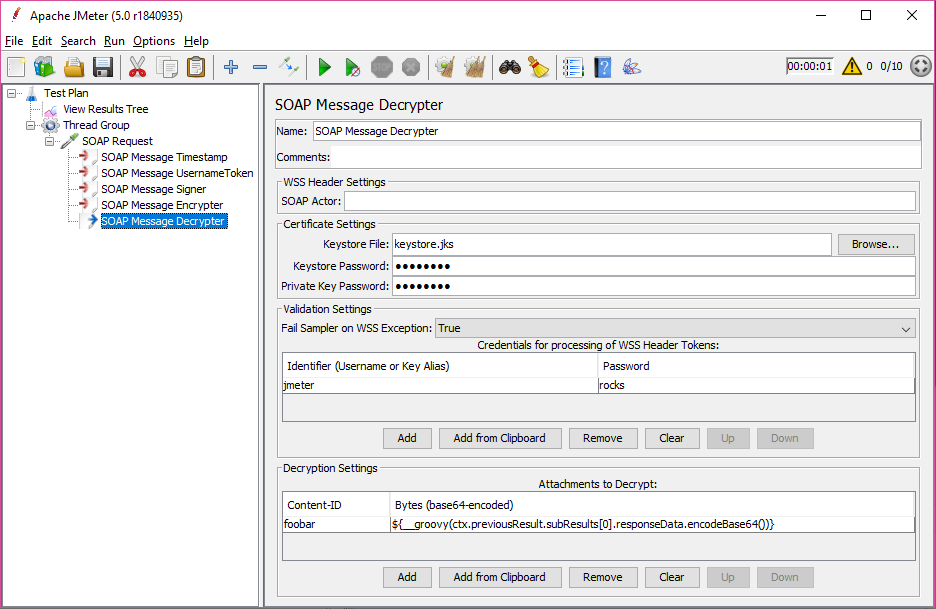
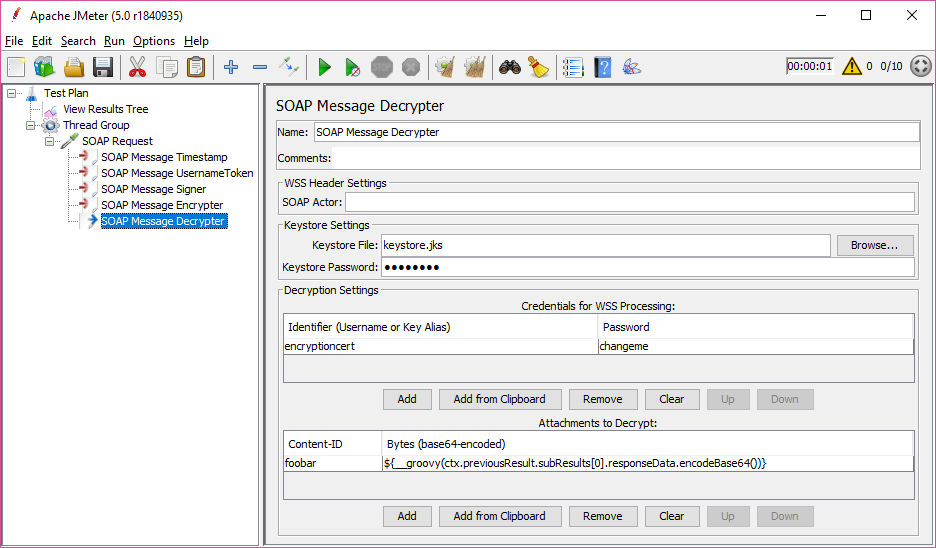
Remove local failure switch and private key field

Changed region(s): [[0.0, 0.0, 1.0, 1.0]]

diff --git a/src/test/java/nz/co/breakpoint/jmeter/modifiers/TestWSSDecryptionPostProcessor.java b/src/test/java/nz/co/breakpoint/jmeter/modifiers/TestWSSDecryptionPostProcessor.java
@@ -29,8 +29,7 @@ public class TestWSSDecryptionPostProcessor extends TestWSSSecurityPreProcessorB
         mod.setThreadContext(context);
         mod.setKeystoreFile("src/test/resources/keystore.jks");
         mod.setKeystorePassword("changeit");
-        mod.setCertPassword("changeit");
-        mod.setFailOnWSSException(true);
+        mod.setCredentials(Arrays.asList(new Credential("rsa", "changeit")));
         result = new SampleResult();
         result.setSuccessful(true);
         context.setPreviousResult(result);
@@ -67,25 +66,19 @@ public class TestWSSDecryptionPostProcessor extends TestWSSSecurityPreProcessorB
             +"</SOAP-ENV:Envelope>",
             "UTF-8");
 
-        for (boolean global: new boolean[]{false, true}) {
-            for (boolean local: new boolean[]{false, true}) {
-                JMeterUtils.setProperty(AbstractWSSecurityPostProcessor.FAIL_ON_WSS_EXCEPTION, String.valueOf(global));
-                mod.setFailOnWSSException(local);
-                mod.process();
+        JMeterUtils.setProperty(AbstractWSSecurityPostProcessor.FAIL_ON_WSS_EXCEPTION, "false");
+        mod.process();
+        assertTrue(result.isSuccessful());
+        assertEquals(0, result.getAssertionResults().length);
 
-                if (global && local) {
-                    assertFalse(result.isSuccessful());
-                    AssertionResult[] assertionResults = result.getAssertionResults();
-                    assertEquals(1, assertionResults.length);
-                    assertEquals("WSSecurityException", assertionResults[0].getName());
-                    assertTrue(assertionResults[0].isError());
-                    assertThat(assertionResults[0].getFailureMessage(), containsString("Any SIG_KEY_INFO MUST contain exactly one child element"));
-                } else {
-                    assertTrue(result.isSuccessful());
-                    assertEquals(0, result.getAssertionResults().length);
-                }
-            }
-        }
+        JMeterUtils.setProperty(AbstractWSSecurityPostProcessor.FAIL_ON_WSS_EXCEPTION, "true");
+        mod.process();
+        assertFalse(result.isSuccessful());
+        AssertionResult[] assertionResults = result.getAssertionResults();
+        assertEquals(1, assertionResults.length);
+        assertEquals("WSSecurityException", assertionResults[0].getName());
+        assertTrue(assertionResults[0].isError());
+        assertThat(assertionResults[0].getFailureMessage(), containsString("Any SIG_KEY_INFO MUST contain exactly one child element"));
     }
 
     @Test
@@ -220,6 +213,7 @@ public class TestWSSDecryptionPostProcessor extends TestWSSSecurityPreProcessorB
     public void testComplexHeader() throws Exception {
         result.setResponseData(Files.readAllBytes(Paths.get("src/test/resources/complex-header.xml")));
         mod.setCredentials(Arrays.asList(
+            new Credential("rsa", "changeit"),
             new Credential("hmac", "changeit"),
             new Credential("jmeter", "jmeter")
         ));

diff --git a/src/main/java/nz/co/breakpoint/jmeter/modifiers/WSSDecryptionPostProcessor.java b/src/main/java/nz/co/breakpoint/jmeter/modifiers/WSSDecryptionPostProcessor.java
@@ -28,7 +28,6 @@ public class WSSDecryptionPostProcessor extends CryptoWSSecurityPostProcessor {
     private static final Logger log = LoggingManager.getLoggerForClass();
 
     protected List<Credential> credentials = new ArrayList<>();
-    protected boolean failOnWSSException = false;
 
     public WSSDecryptionPostProcessor() throws ParserConfigurationException {
         super();
@@ -64,7 +63,7 @@ public class WSSDecryptionPostProcessor extends CryptoWSSecurityPostProcessor {
                     switch (pwcb.getUsage()) {
                         case DECRYPT:
                             log.debug("Providing callback with private key password for "+pwcb.getIdentifier());
-                            pwcb.setPassword(getCertPassword());
+                            pwcb.setPassword(getPasswordForAlias(pwcb.getIdentifier()));
                             break;
                         case USERNAME_TOKEN:
                             log.debug("Providing callback with password for username "+pwcb.getIdentifier());
@@ -101,15 +100,7 @@ public class WSSDecryptionPostProcessor extends CryptoWSSecurityPostProcessor {
                 }
             }
         });
-        try {
-            WSHandlerResult results = secEngine.processSecurityHeader(document, requestData);
-        } catch (WSSecurityException e) {
-            if (isFailOnWSSException()) {
-                throw e;
-            } else {
-                log.debug("Suppressing exception", e);
-            }
-        }
+        WSHandlerResult results = secEngine.processSecurityHeader(document, requestData);
         return document;
     }
 
@@ -137,27 +128,11 @@ public class WSSDecryptionPostProcessor extends CryptoWSSecurityPostProcessor {
     }
 
     // Accessors
-    public boolean isFailOnWSSException() {
-        return failOnWSSException;
-    }
+    public List<Credential> getCredentials() { return credentials; }
 
-    public void setFailOnWSSException(boolean failOnWSSException) {
-        this.failOnWSSException = failOnWSSException;
-    }
+    public void setCredentials(List<Credential> credentials) { this.credentials = credentials; }
 
-    public List<Credential> getCredentials() {
-        return credentials;
-    }
+    public List<Attachment> getAttachments() { return attachments; }
 
-    public void setCredentials(List<Credential> credentials) {
-        this.credentials = credentials;
-    }
-
-    public List<Attachment> getAttachments() {
-        return attachments;
-    }
-
-    public void setAttachments(List<Attachment> attachments) {
-        this.attachments = attachments;
-    }
+    public void setAttachments(List<Attachment> attachments) { this.attachments = attachments; }
 }

diff --git a/src/main/java/nz/co/breakpoint/jmeter/modifiers/AbstractWSSecurityTestElementBeanInfo.java b/src/main/java/nz/co/breakpoint/jmeter/modifiers/AbstractWSSecurityTestElementBeanInfo.java
@@ -26,10 +26,10 @@ public class AbstractWSSecurityTestElementBeanInfo extends BeanInfoSupport {
             defaults;
     }
 
-    protected void createCertificateProperties() {
-        createPropertyGroup("Certificate", new String[]{
-            "keystoreFile", "keystorePassword", "certAlias", "certPassword"
-        });
+    protected void createCertificateProperties(boolean includeCertificateCredentials) {
+        createPropertyGroup("Certificate", includeCertificateCredentials ?
+            new String[]{ "keystoreFile", "keystorePassword", "certAlias", "certPassword"} :
+            new String[]{ "keystoreFile", "keystorePassword" });
         PropertyDescriptor p;
 
         p = property("keystoreFile");
@@ -42,13 +42,15 @@ public class AbstractWSSecurityTestElementBeanInfo extends BeanInfoSupport {
         p.setValue(NOT_UNDEFINED, Boolean.TRUE);
         p.setValue(DEFAULT, "");
 
-        p = property("certAlias");
-        p.setValue(NOT_UNDEFINED, Boolean.TRUE);
-        p.setValue(DEFAULT, "");
+        if (includeCertificateCredentials) {
+            p = property("certAlias");
+            p.setValue(NOT_UNDEFINED, Boolean.TRUE);
+            p.setValue(DEFAULT, "");
 
-        p = property("certPassword");
-        p.setPropertyEditorClass(PasswordEditor.class);
-        p.setValue(NOT_UNDEFINED, Boolean.TRUE);
-        p.setValue(DEFAULT, "");
+            p = property("certPassword");
+            p.setPropertyEditorClass(PasswordEditor.class);
+            p.setValue(NOT_UNDEFINED, Boolean.TRUE);
+            p.setValue(DEFAULT, "");
+        }
     }
 }

diff --git a/src/main/java/nz/co/breakpoint/jmeter/modifiers/WSSDecryptionPostProcessorBeanInfo.java b/src/main/java/nz/co/breakpoint/jmeter/modifiers/WSSDecryptionPostProcessorBeanInfo.java
@@ -8,23 +8,14 @@ public class WSSDecryptionPostProcessorBeanInfo extends CryptoWSSecurityPostProc
     public WSSDecryptionPostProcessorBeanInfo() {
         super(WSSDecryptionPostProcessor.class);
 
-        property("certAlias").setHidden(true); // not needed for decryption, key reference is in response
+        createPropertyGroup("Decryption", new String[] { "credentials", "attachments" });
 
-        createPropertyGroup("Validation", new String[] { "failOnWSSException", "credentials" });
-
-        PropertyDescriptor p = property("failOnWSSException");
-        p.setValue(NOT_UNDEFINED, Boolean.TRUE);
-        p.setValue(DEFAULT, Boolean.TRUE);
-        p.setValue(NOT_OTHER, Boolean.TRUE);
-
-        p = property("credentials");
+        PropertyDescriptor p = property("credentials");
         p.setPropertyEditorClass(TableEditor.class);
         p.setValue(TableEditor.CLASSNAME, Credential.class.getName());
         p.setValue(TableEditor.HEADERS, getTableHeadersWithDefaults("credentials.tableHeaders",
                 new String[]{"Identifier", "Password"}));
         p.setValue(TableEditor.OBJECT_PROPERTIES, new String[]{"name", "password"});
-
-        createPropertyGroup("Decryption", new String[] { "attachments" });
 
         p = property("attachments");
         p.setPropertyEditorClass(TableEditor.class);

diff --git a/src/main/java/nz/co/breakpoint/jmeter/modifiers/CryptoWSSecurityPreProcessor.java b/src/main/java/nz/co/breakpoint/jmeter/modifiers/CryptoWSSecurityPreProcessor.java
@@ -15,6 +15,7 @@ import org.apache.wss4j.dom.message.WSSecBase;
 public abstract class CryptoWSSecurityPreProcessor extends AbstractWSSecurityPreProcessor {
 
     protected CryptoTestElement crypto = new CryptoTestElement();
+    protected String certAlias, certPassword; // Keystore alias to use for this preprocessor's crypto operation
 
     protected List<SecurityPart> partsToSecure; // Holds the names of XML elements to secure (e.g. SOAP Body)
     protected String keyIdentifier;
@@ -51,13 +52,13 @@ public abstract class CryptoWSSecurityPreProcessor extends AbstractWSSecurityPre
     }
 
     // Accessors
-    public String getCertAlias() { return crypto.getCertAlias(); }
+    public String getCertAlias() { return certAlias; }
 
-    public void setCertAlias(String certAlias) { crypto.setCertAlias(certAlias); }
+    public void setCertAlias(String certAlias) { this.certAlias = certAlias; }
 
-    public String getCertPassword() { return crypto.getCertPassword(); }
+    public String getCertPassword() { return certPassword; }
 
-    public void setCertPassword(String certPassword) { crypto.setCertPassword(certPassword); }
+    public void setCertPassword(String certPassword) { this.certPassword = certPassword; }
 
     public String getKeystoreFile() { return crypto.getKeystoreFile(); }
 

diff --git a/src/main/java/nz/co/breakpoint/jmeter/modifiers/CryptoTestElement.java b/src/main/java/nz/co/breakpoint/jmeter/modifiers/CryptoTestElement.java
@@ -24,7 +24,6 @@ public class CryptoTestElement extends AbstractTestElement {
     private static final Logger log = LoggingManager.getLoggerForClass();
 
     private final Properties cryptoProps = new Properties(); // Holds configured attributes for crypto instance
-    protected String certAlias, certPassword;
 
     public CryptoTestElement() {
         cryptoProps.setProperty(PREFIX+KEYSTORE_TYPE, "JCEKS"); // compatible with JKS and PKCS12/PFX
@@ -63,14 +62,6 @@ public class CryptoTestElement extends AbstractTestElement {
         }
         return null;
     }
-
-    public String getCertAlias() { return certAlias; }
-
-    public void setCertAlias(String certAlias) { this.certAlias = certAlias; }
-
-    public String getCertPassword() { return certPassword; }
-
-    public void setCertPassword(String certPassword) { this.certPassword = certPassword; }
 
     public String getKeystoreFile() { return cryptoProps.getProperty(PREFIX+KEYSTORE_FILE); }
 

diff --git a/src/main/java/nz/co/breakpoint/jmeter/modifiers/CryptoWSSecurityPostProcessor.java b/src/main/java/nz/co/breakpoint/jmeter/modifiers/CryptoWSSecurityPostProcessor.java
@@ -20,14 +20,6 @@ public abstract class CryptoWSSecurityPostProcessor extends AbstractWSSecurityPo
     }
 
     // Accessors
-    public String getCertAlias() { return crypto.getCertAlias(); }
-
-    public void setCertAlias(String certAlias) { crypto.setCertAlias(certAlias); }
-
-    public String getCertPassword() { return crypto.getCertPassword(); }
-
-    public void setCertPassword(String certPassword) { crypto.setCertPassword(certPassword); }
-
     public String getKeystoreFile() { return crypto.getKeystoreFile(); }
 
     public void setKeystoreFile(String keystoreFile) { crypto.setKeystoreFile(keystoreFile); }

diff --git a/src/main/java/nz/co/breakpoint/jmeter/modifiers/CryptoWSSecurityPreProcessorBeanInfo.java b/src/main/java/nz/co/breakpoint/jmeter/modifiers/CryptoWSSecurityPreProcessorBeanInfo.java
@@ -8,7 +8,7 @@ public class CryptoWSSecurityPreProcessorBeanInfo extends AbstractWSSecurityPreP
     public CryptoWSSecurityPreProcessorBeanInfo(Class<? extends CryptoWSSecurityPreProcessor> clazz) {
         super(clazz);
 
-        createCertificateProperties();
+        createCertificateProperties(true);
     }
 
     // This may be added to a property group by subclasses (if desired)

diff --git a/src/main/java/nz/co/breakpoint/jmeter/modifiers/CryptoWSSecurityPostProcessorBeanInfo.java b/src/main/java/nz/co/breakpoint/jmeter/modifiers/CryptoWSSecurityPostProcessorBeanInfo.java
@@ -5,6 +5,6 @@ public class CryptoWSSecurityPostProcessorBeanInfo extends AbstractWSSecurityPos
     public CryptoWSSecurityPostProcessorBeanInfo(Class<? extends CryptoWSSecurityPostProcessor> clazz) {
         super(clazz);
 
-        createCertificateProperties();
+        createCertificateProperties(false);
     }
 }

diff --git a/README.md b/README.md
@@ -132,16 +132,19 @@ but only if it is an immediate child node of the SOAP Header.
 ### Post-Processor
 
 The SOAP Message Decrypter takes a sampler's response data as input, expecting a SOAP message with WS-Security header,
-and decrypts the payload based on the content of a given keystore. This requires the Private Key Password
+and decrypts the payload based on the content of a given keystore. This requires the private key password
 of the encryption certificate.
 
-Note: Due to the way the underlying wss4j library is implemented, any other, not encryption related, security tokens 
+Until plugin version 1.6 this password is expected in the field "Private Key Password". As of version 1.7 it needs to be
+provided in the table *Credentials for WSS Processing*, along with the alias of the keystore entry.
+
+Note: Due to the way the underlying wss4j library is implemented, any other, not encryption related security tokens 
 in the response message will also be processed, for example signature tokens. 
 Any such processing will fail if key information is not present. For example, should the response message
 include a symmetric signature token, the SOAP Message Decrypter needs the secret key that was used to generate the token.
 
 The key(s) may be provided in the configured keystore, and the secret key password(s) can be listed 
-in the table *Credentials for processing of WSS Header Tokens*.
+in the table *Credentials for WSS Processing*.
 Likewise, if a response were to contain a Username Token, the password(s) for the expected username(s) can be listed in
 that table, so that the Post-Processor is able to validate the token.
 
@@ -150,8 +153,7 @@ while trying to decrypt or validate a response message will cause the sampler to
 [assertion](http://jmeter.apache.org/usermanual/component_reference.html#assertions) result, 
 effectively behaving like an implicit assertion.
 
-If this behaviour is not desired, it may be turned off for a SOAP Message Decrypter via setting 
-*Fail Sampler on WSS Exception* to "False", or globally via setting the JMeter property `jmeter.wssecurity.failSamplerOnWSSException=false`.
+If this behaviour is not desired, it may be turned off via setting the JMeter property `jmeter.wssecurity.failSamplerOnWSSException=false`.
 
 ### Support for 3rd party samplers
 
